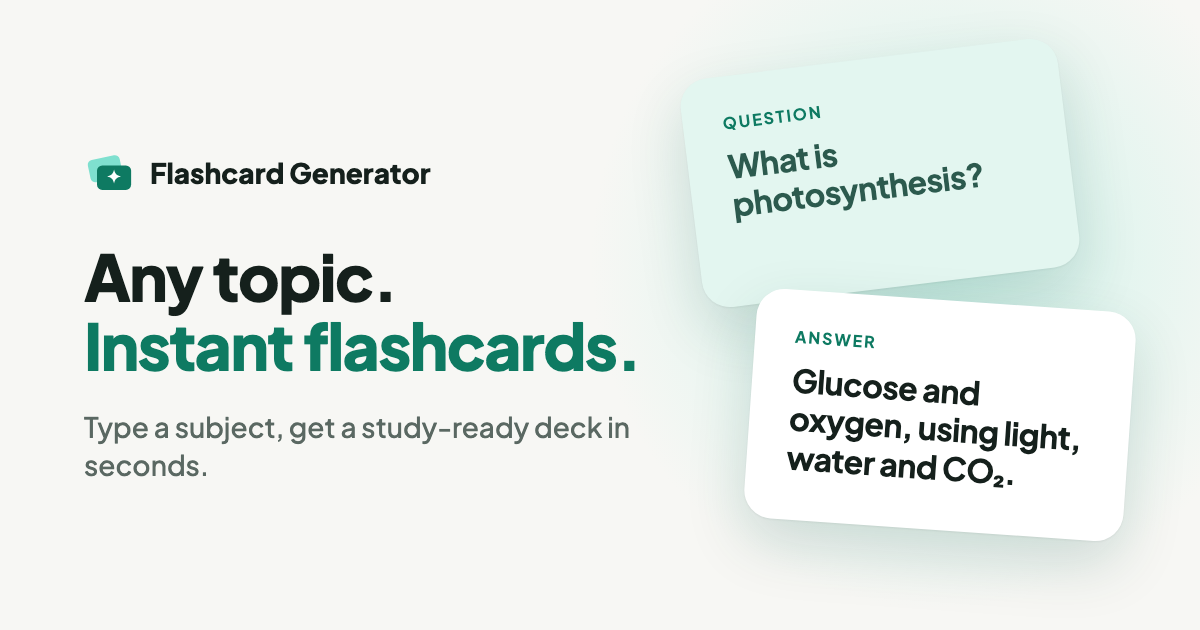
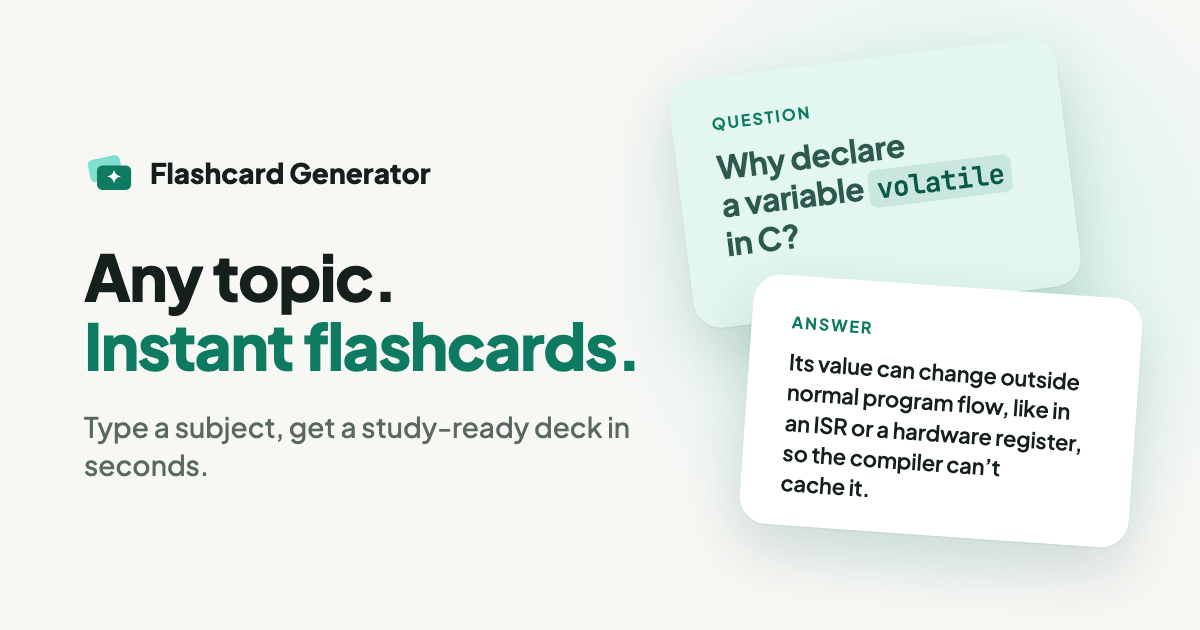
Use an embedded C example on the social share card
Swap the photosynthesis Q/A for a C `volatile` question and bump the
og/twitter image URL to ?v=3 so link previews refetch it.

Changed region(s): [[0.5858, 0.2111, 0.9558, 0.8746], [0.5858, 0.1508, 0.6783, 0.2111]]

diff --git a/public/index.html b/public/index.html
@@ -23,14 +23,14 @@
     <meta property="og:url" content="https://study.noahgdorfman.com/">
     <meta property="og:title" content="Flashcard Generator">
     <meta property="og:description" content="Type any topic and get a study-ready deck of AI flashcards in seconds.">
-    <meta property="og:image" content="https://study.noahgdorfman.com/assets/social.png?v=2">
+    <meta property="og:image" content="https://study.noahgdorfman.com/assets/social.png?v=3">
 
     <!-- Twitter Meta Tags -->
     <meta name="twitter:card" content="summary_large_image">
     <meta name="twitter:url" content="https://study.noahgdorfman.com/">
     <meta name="twitter:title" content="Flashcard Generator">
     <meta name="twitter:description" content="Type any topic and get a study-ready deck of AI flashcards in seconds.">
-    <meta name="twitter:image" content="https://study.noahgdorfman.com/assets/social.png?v=2">
+    <meta name="twitter:image" content="https://study.noahgdorfman.com/assets/social.png?v=3">
 </head>
 
 <body>
